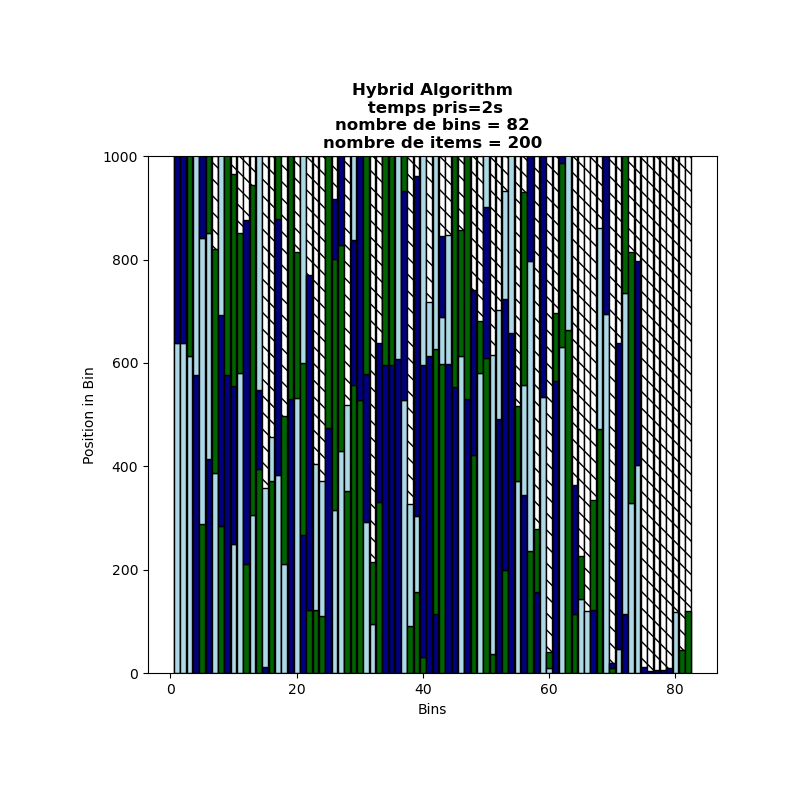
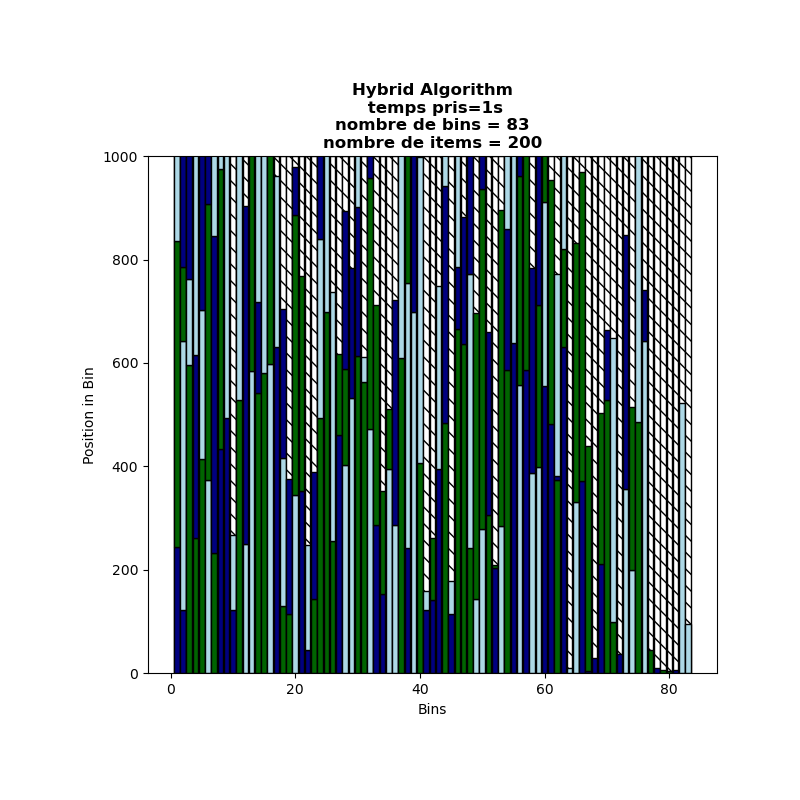
fix

diff --git a/main.py b/main.py
@@ -176,16 +176,16 @@ def fitnesses_over_grasp_iterations_grasp_alpha(items, bin_capacity,):
 
 
     assert len(x) *len(y) == len(z)
-    plot_heatmap(x, y, z, "population size", "num generations", "fitness", "fitness over grasp_iterations and grasp_alpha")
+    plot_heatmap(x, y, z, "grasp_iterations", "grasp_alpha", "fitness", "fitness over grasp_iterations and grasp_alpha")
 
 
 if __name__ == "__main__":
 
     # command line arguments parser
     parser = argparse.ArgumentParser()
-    parser.add_argument('--nb-items', type=int, default=14, help='number of items')
-    parser.add_argument('--max-size', type=int, default=6, help='maximum size')
-    parser.add_argument('--bin-capacity', type=int, default=10, help='bin capacity')
+    parser.add_argument('--nb-items', type=int, default=100, help='number of items')
+    parser.add_argument('--max-size', type=int, default=1000, help='maximum size')
+    parser.add_argument('--bin-capacity', type=int, default=1000, help='bin capacity')
     args = parser.parse_args()
 
     nb_items = args.nb_items
